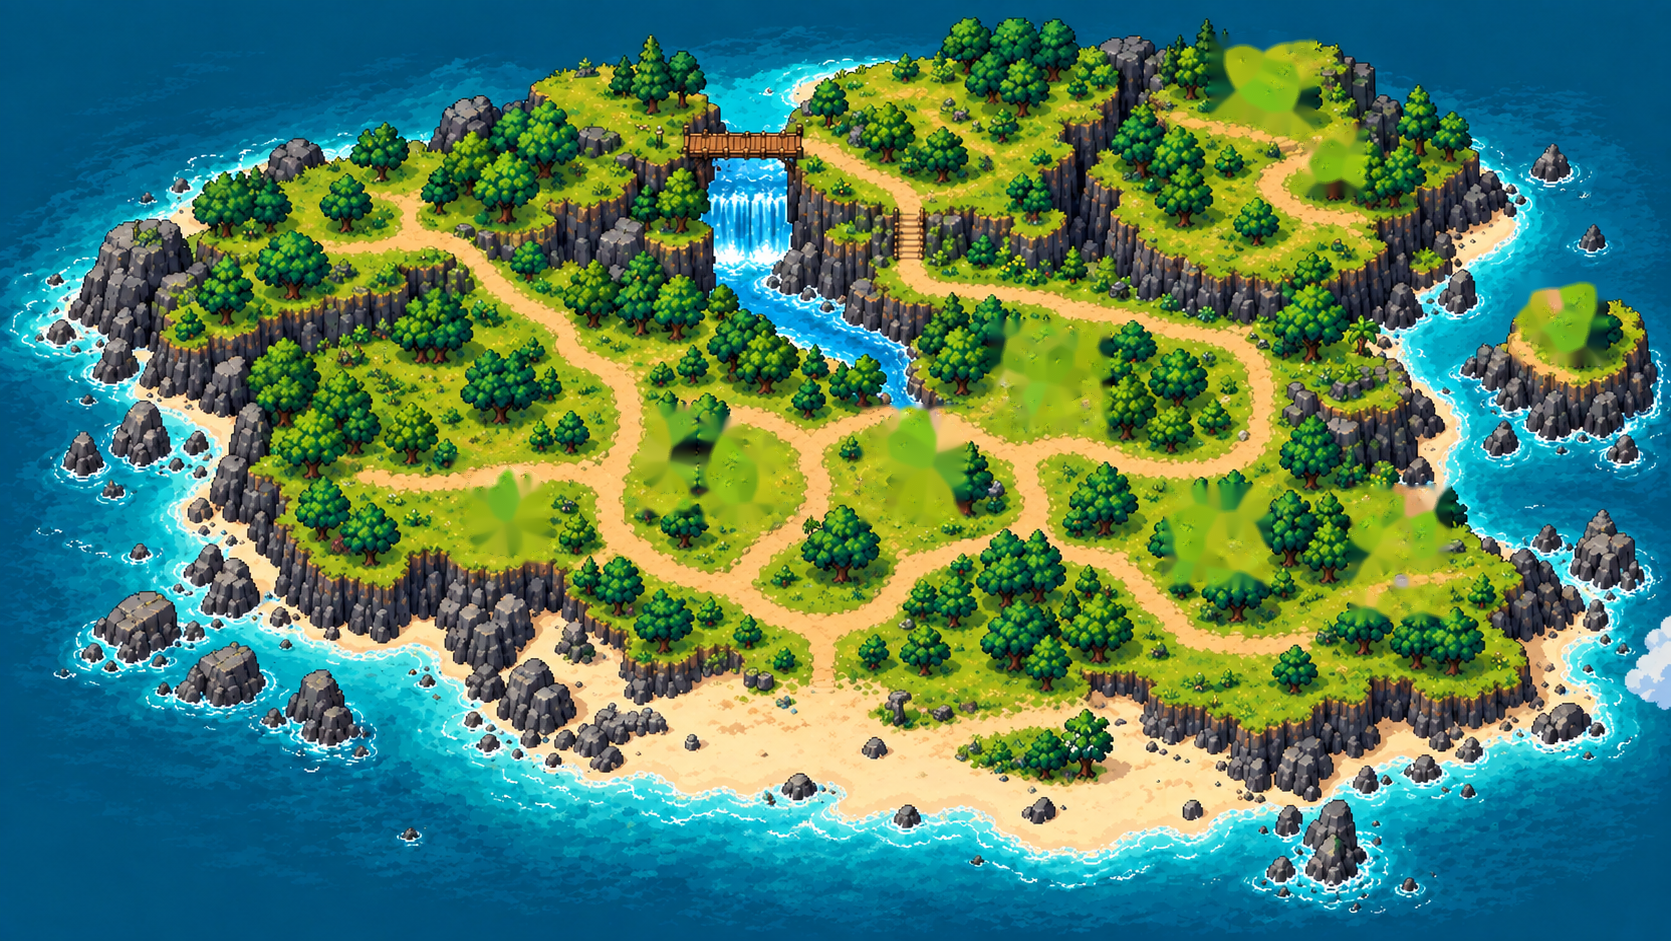
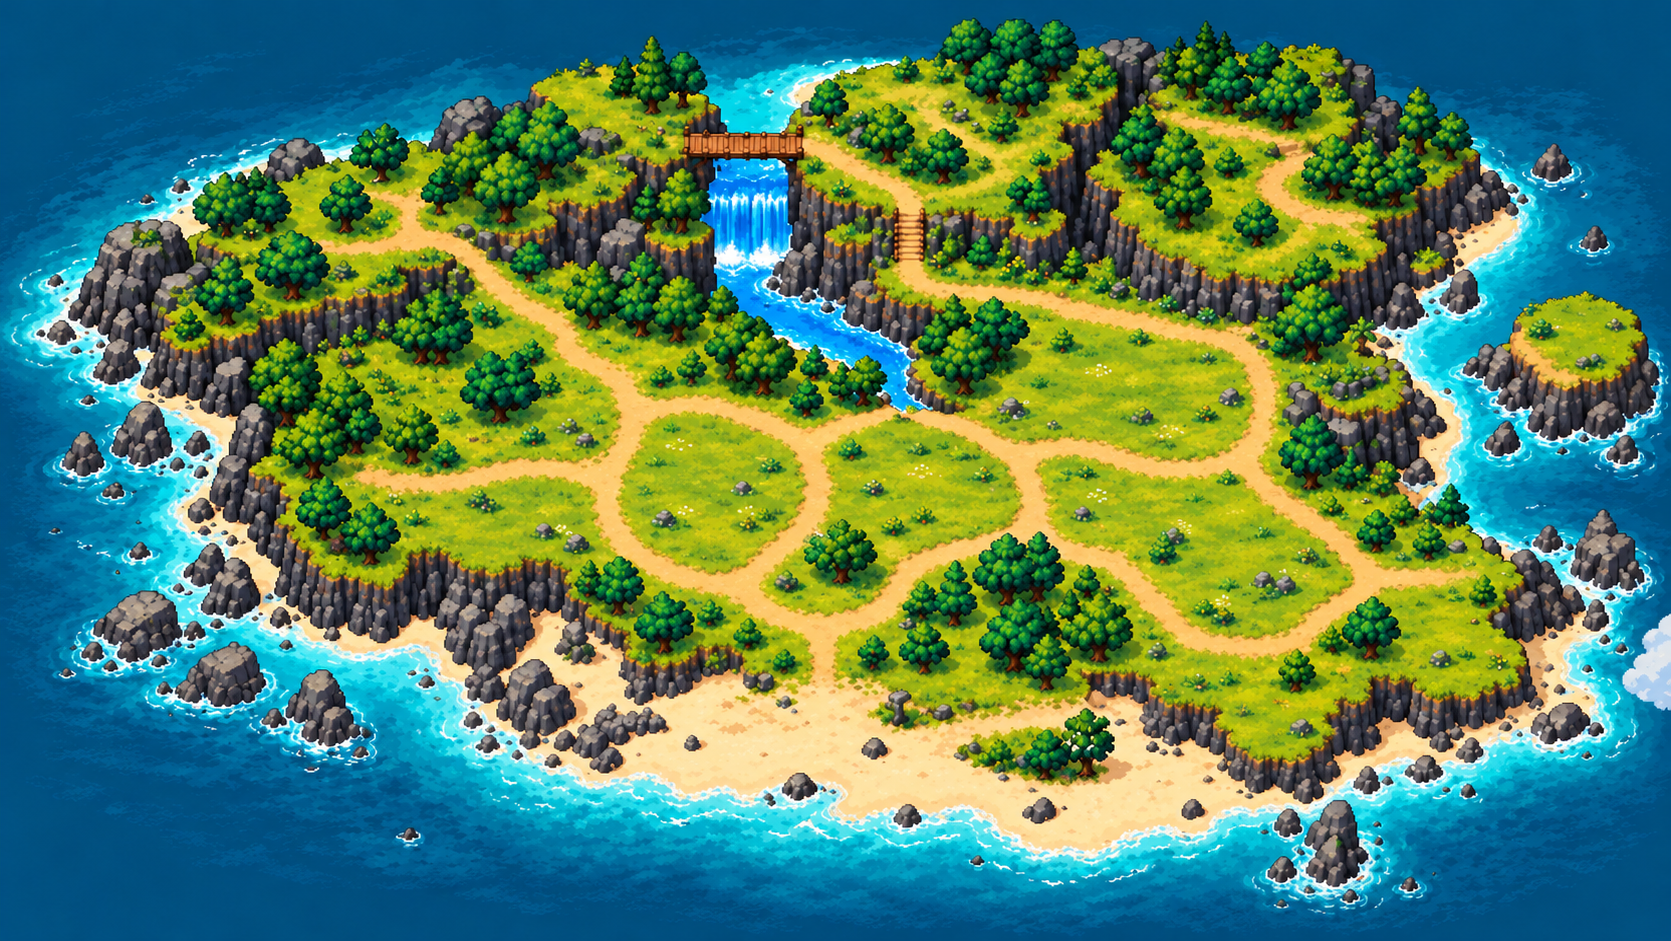
Update CyberIsland challenges --map fixed

diff --git a/frontend/index.html b/frontend/index.html
@@ -225,6 +225,15 @@
       </div>
     </div>
 
+    <!-- Decorative compass overlay -->
+    <img
+      id="compass-overlay"
+      class="compass-overlay"
+      src="/assets/world/Ornate%20Tropical%20Compass%20Rose.png"
+      alt="Ornate tropical compass rose"
+      draggable="false"
+    />
+
     <!-- RETRO PIXEL INTERACTION PROMPT -->
     <div id="interaction-prompt" class="interaction-prompt hidden">
       <span class="key-badge">E</span>

diff --git a/frontend/src/styles/style.css b/frontend/src/styles/style.css
@@ -591,6 +591,19 @@ body, html {
   z-index: 15;
 }
 
+.compass-overlay {
+  position: absolute;
+  right: 22px;
+  bottom: 20px;
+  width: clamp(140px, 18vw, 220px);
+  height: auto;
+  opacity: 0.9;
+  object-fit: contain;
+  pointer-events: none !important;
+  z-index: 14;
+  filter: drop-shadow(0 3px 5px rgba(0, 0, 0, 0.65));
+}
+
 .control-row {
   display: flex;
   align-items: center;
